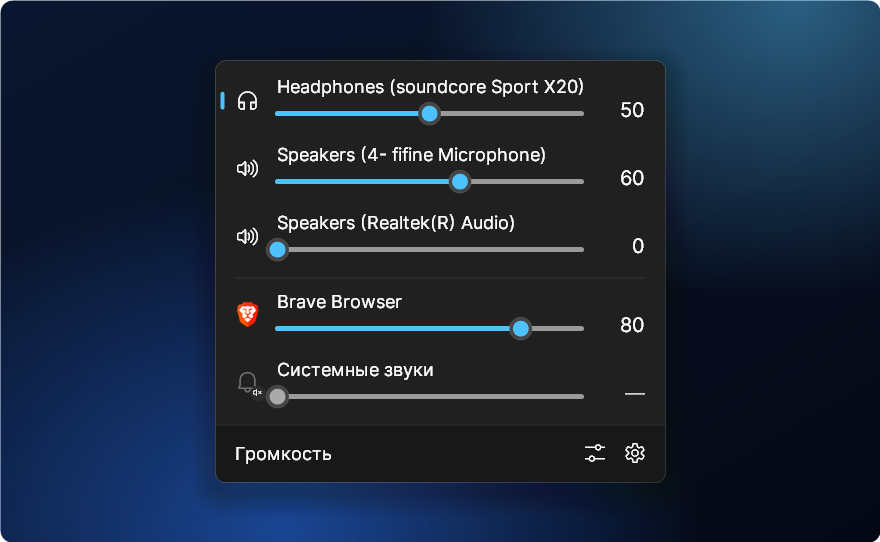
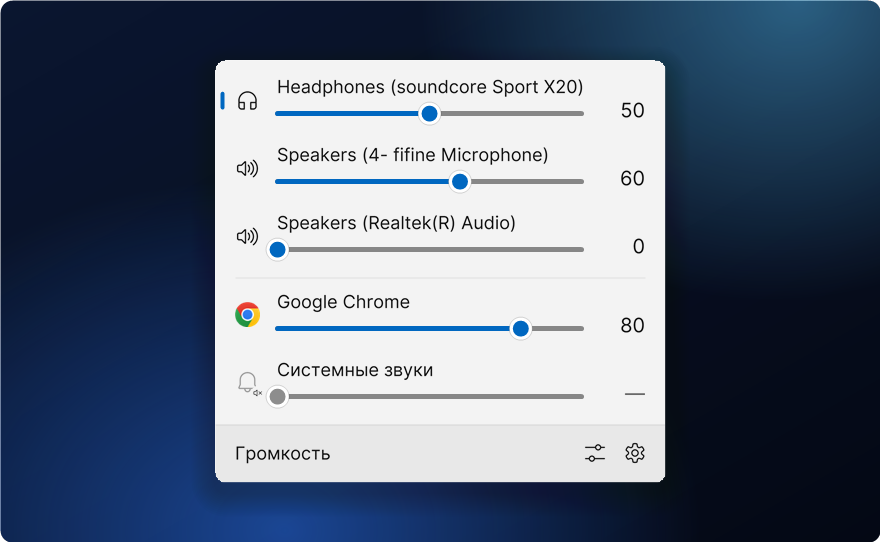
TrayMixer 2.0.1: smooth text

diff --git a/TrayMixer.cs b/TrayMixer.cs
@@ -18,8 +18,8 @@ using Microsoft.Win32;
 [assembly: System.Reflection.AssemblyTitle("TrayMixer")]
 [assembly: System.Reflection.AssemblyProduct("TrayMixer")]
 [assembly: System.Reflection.AssemblyDescription("Lightweight Windows 11 tray volume mixer")]
-[assembly: System.Reflection.AssemblyVersion("2.0.0.0")]
-[assembly: System.Reflection.AssemblyFileVersion("2.0.0.0")]
+[assembly: System.Reflection.AssemblyVersion("2.0.1.0")]
+[assembly: System.Reflection.AssemblyFileVersion("2.0.1.0")]
 
 namespace TrayMixer
 {
